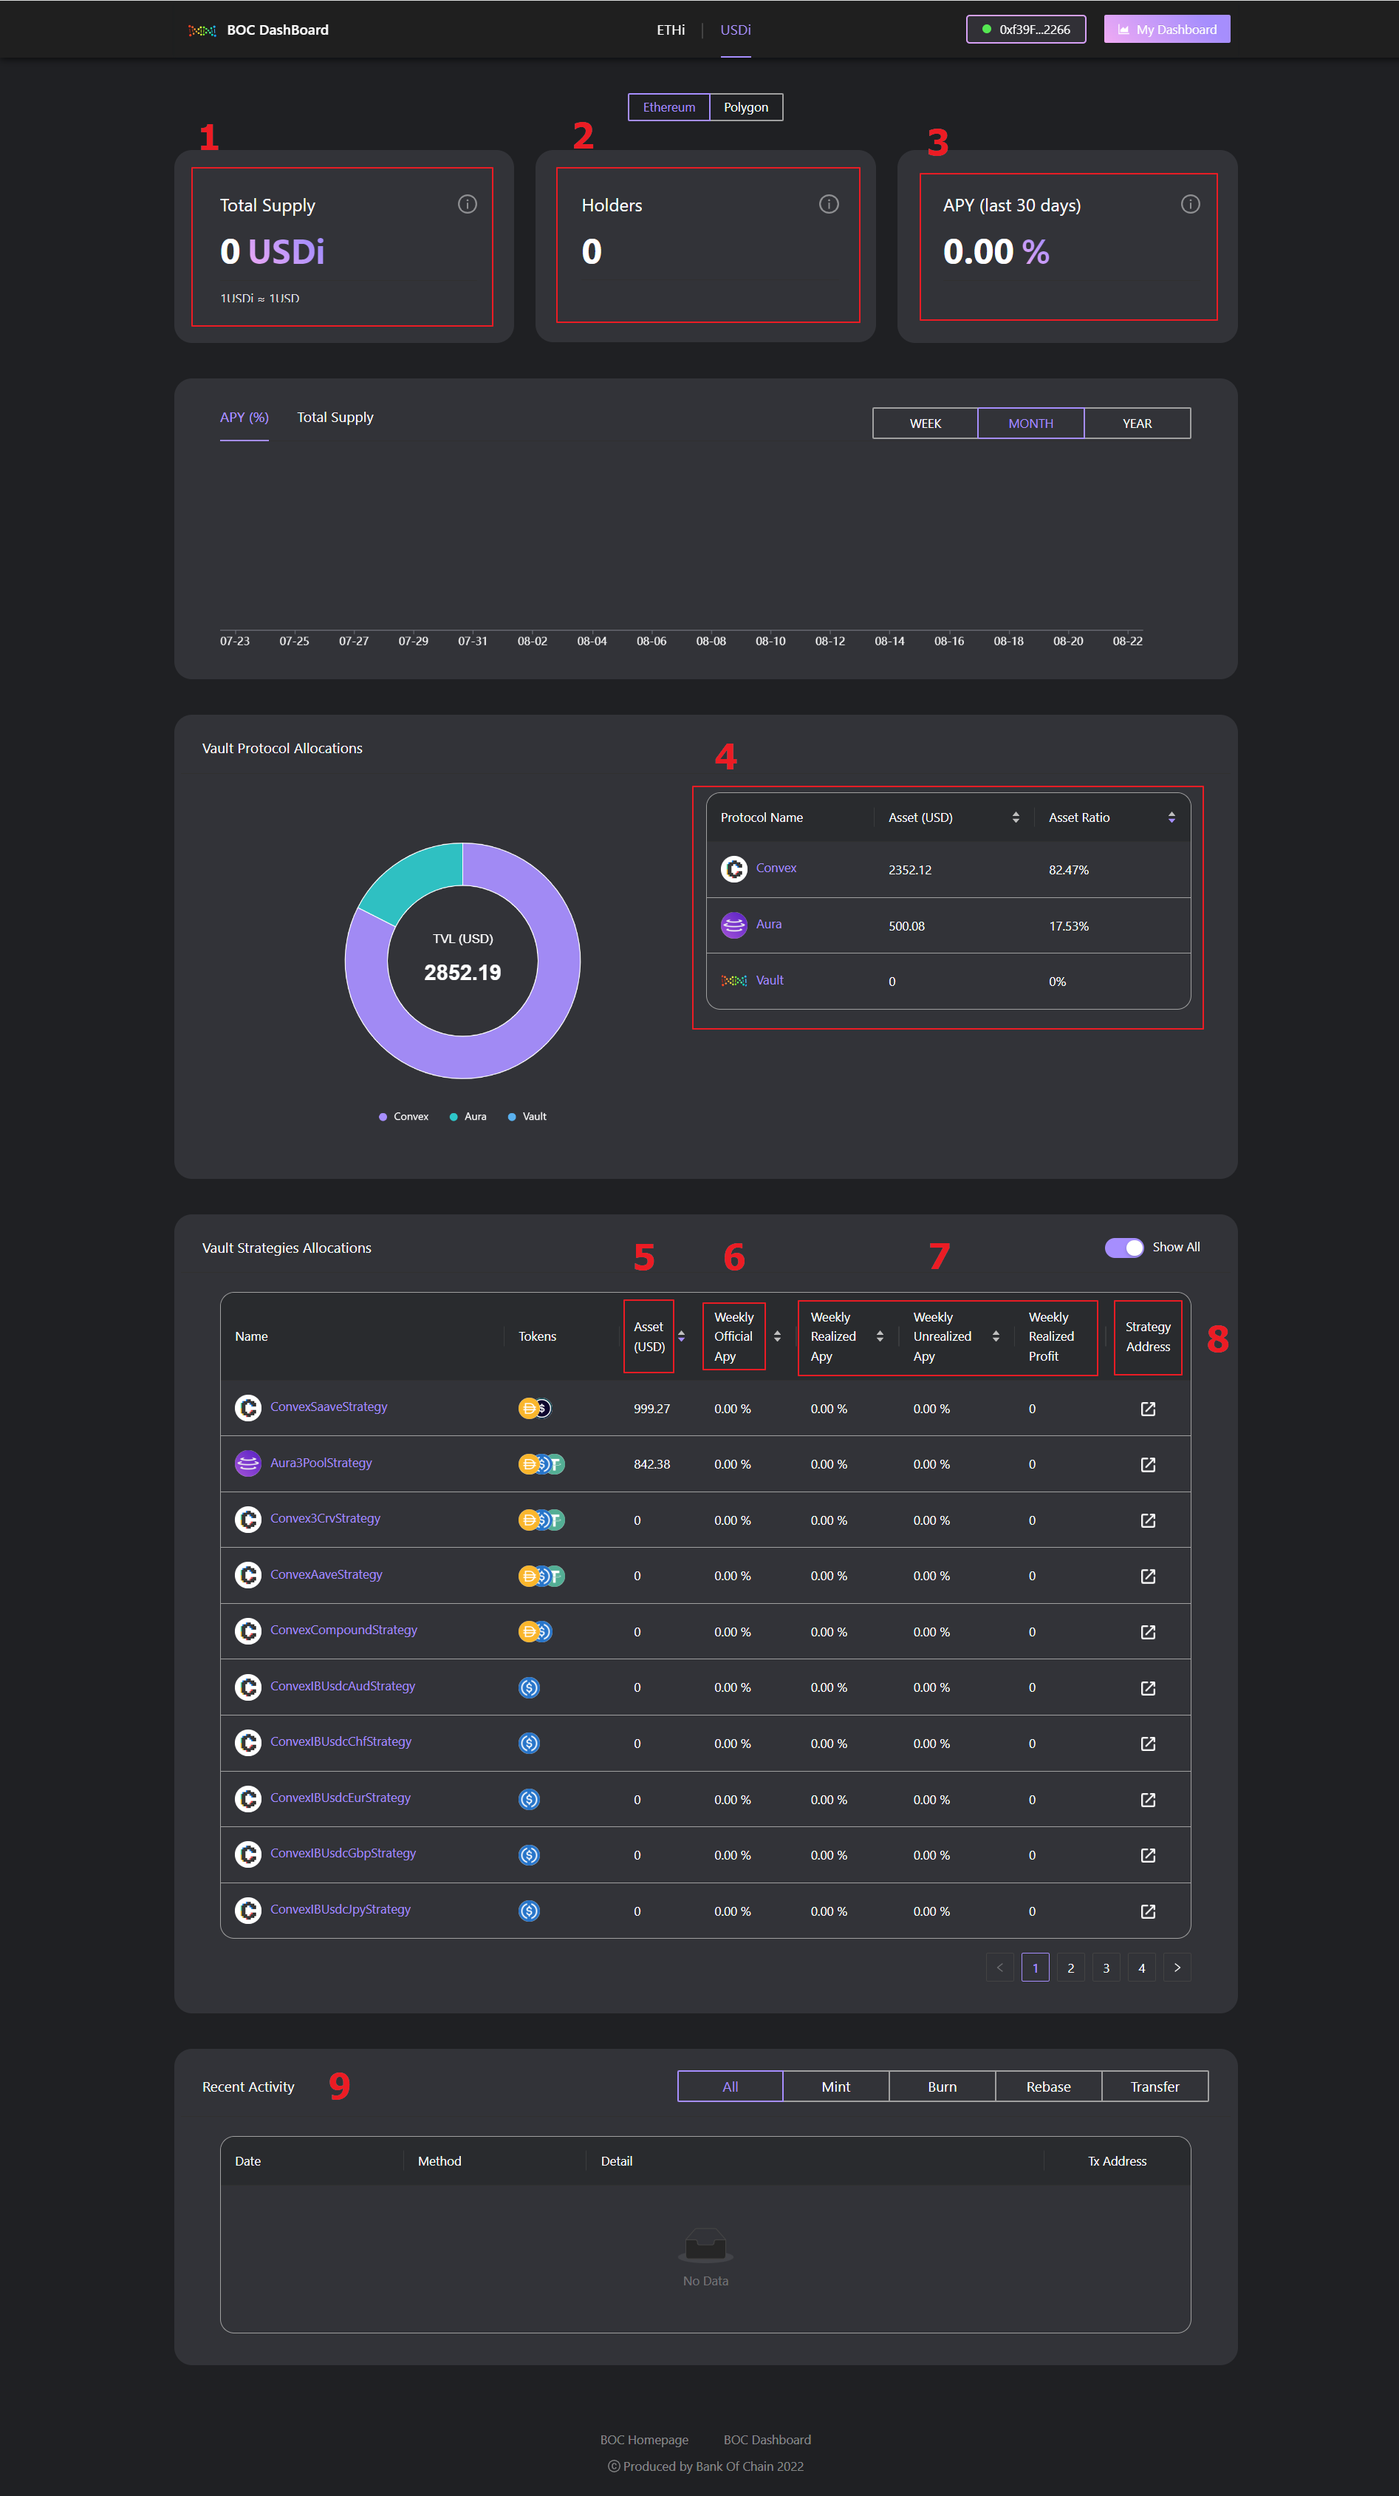
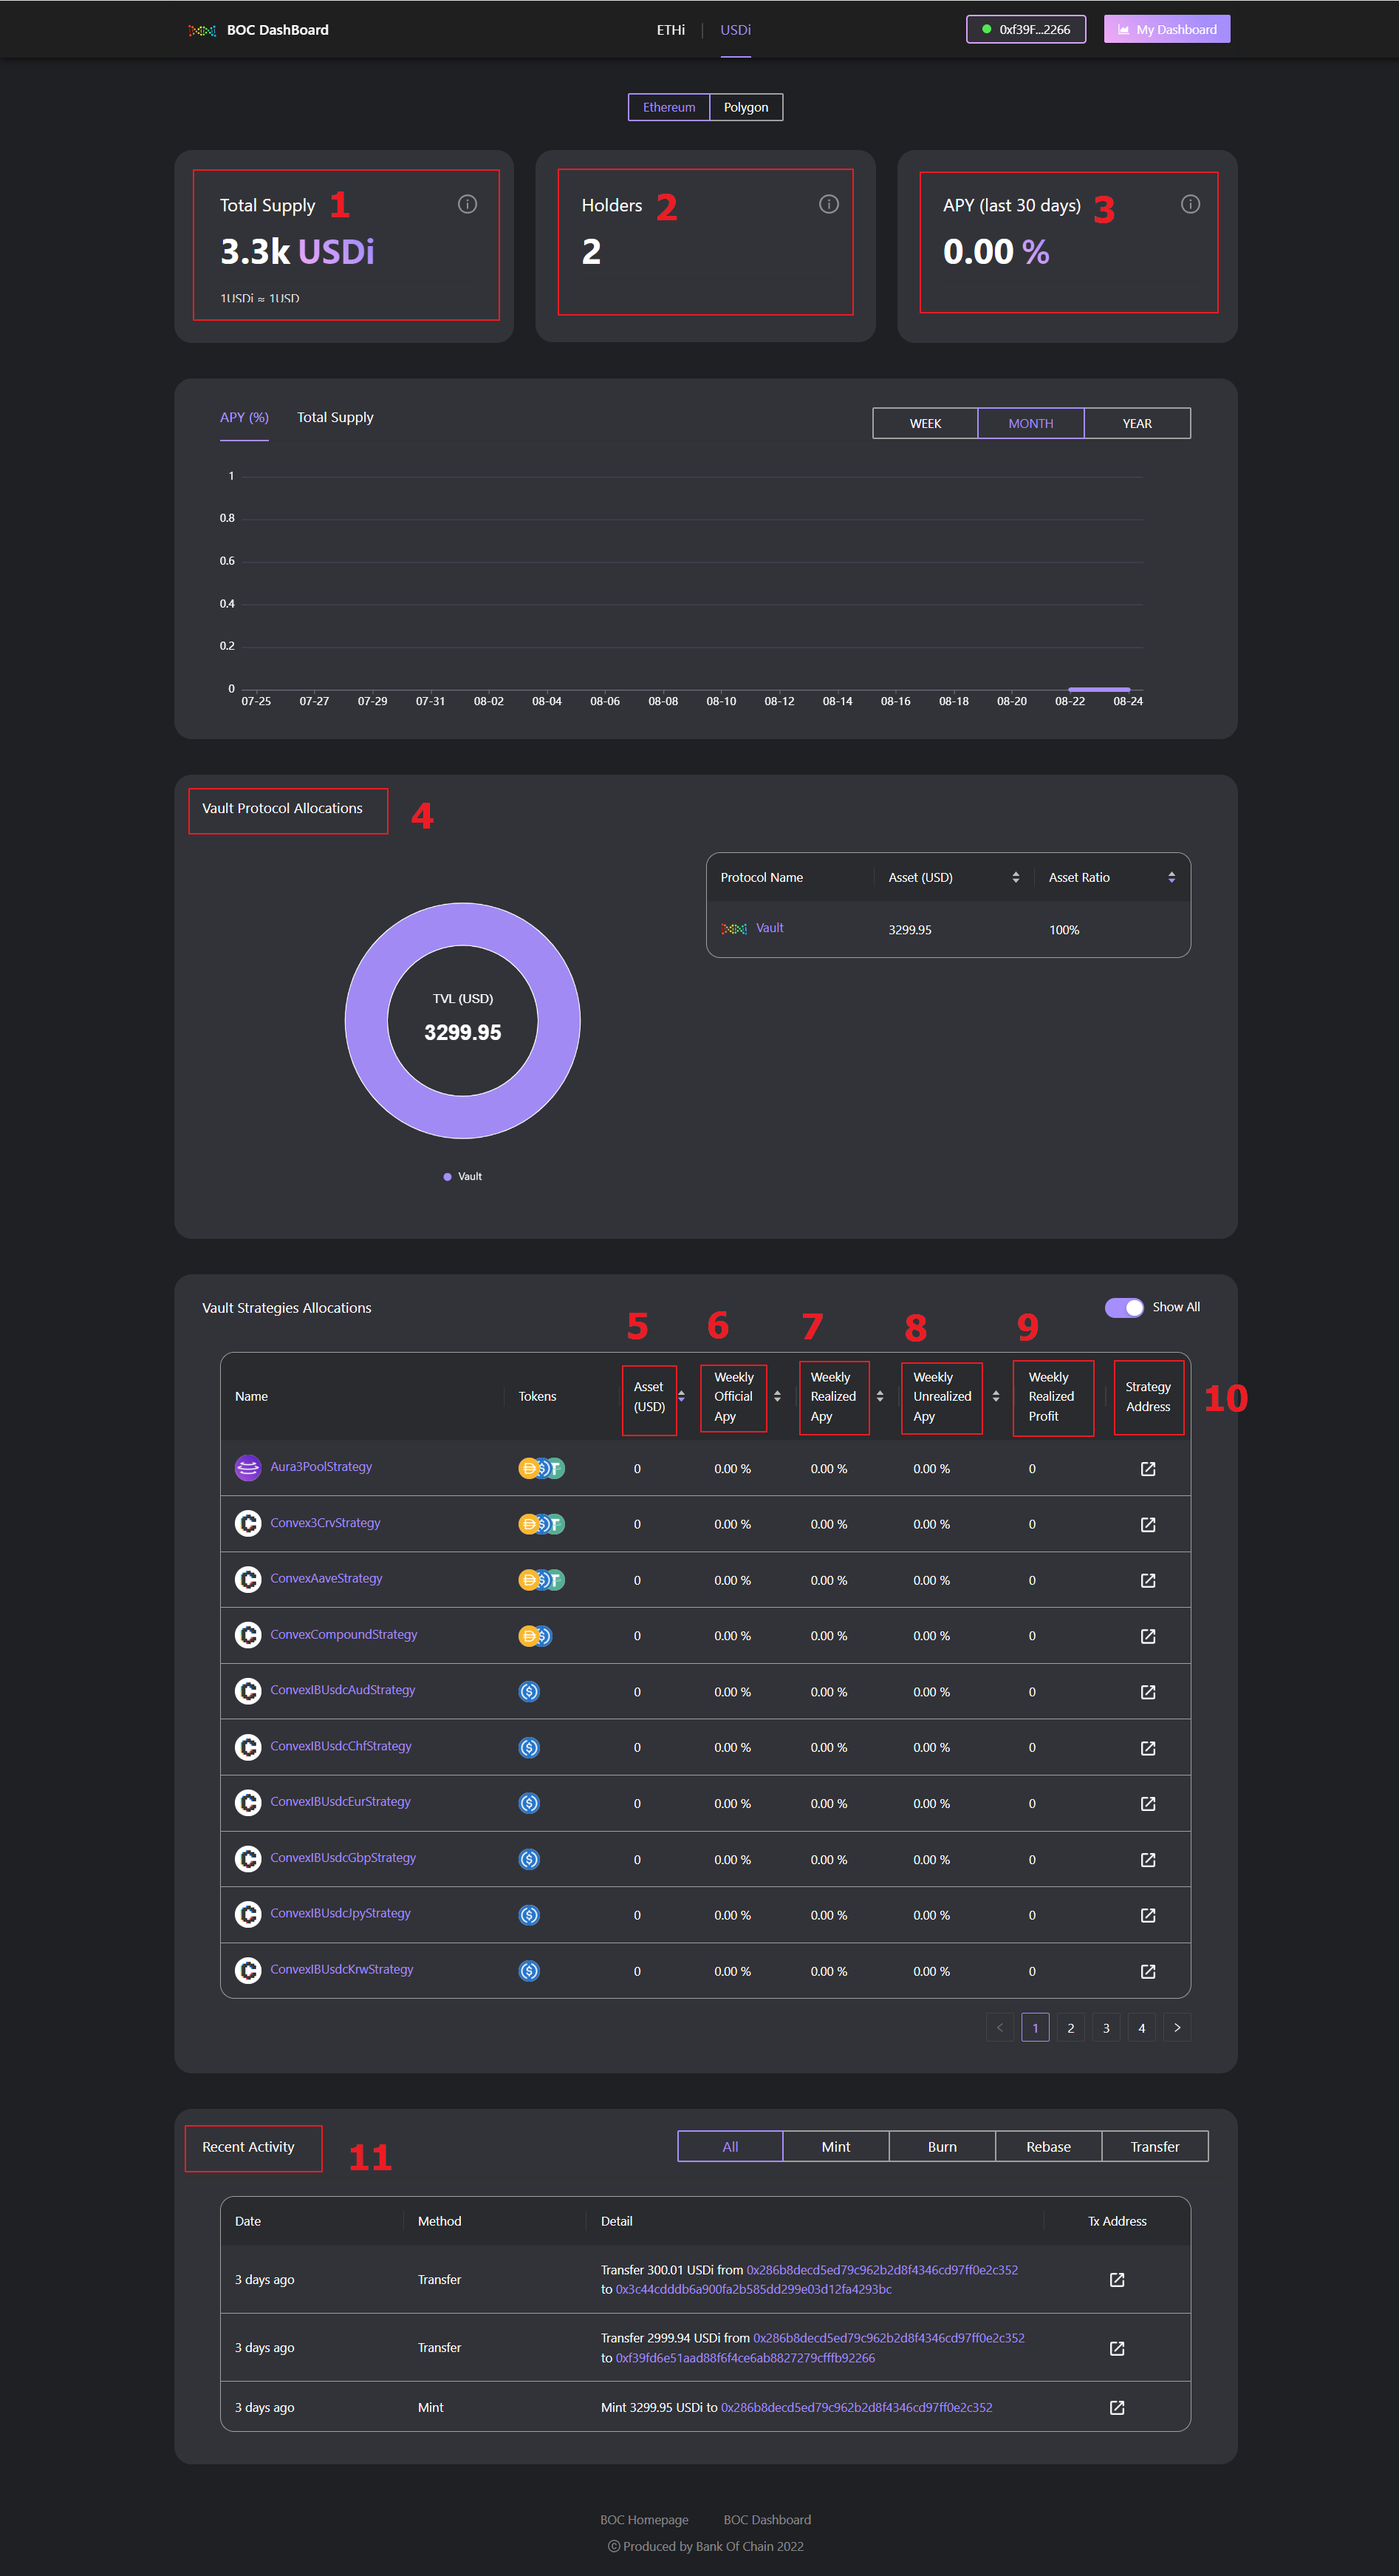
new commit

diff --git a/boc/user-handbook.md b/boc/user-handbook.md
@@ -139,7 +139,9 @@ The data presented are described as follows:
 4. Proportion of protocol funds, queried from the subgraph interface.
 5. The total assets of each strategy, read the contract interface.
 6. Official APY, regularly pulled weekly.
-7. Currency standard Weekly Realised APY, Weekly Unrealised APY, and weekly Realised Profit.
+7. *TBC*
+8. *TBC*
+9. Weekly profit generated by the corresponding strategy, obtained after harvest has been executed.
 8. Strategy Address.
 9. Vault operation records (of recent activities), displayed with the blockchain browser.
 
@@ -151,24 +153,28 @@ BoC subgraph:
 
 ## Strategy Details
 
-Take DForceLendDaiStrategy as an example, enter the strategy details page as shown in the figure:
+Using UniswapV3UsdcUsdt500Strategy as an example, enter the strategy details page as shown in the figure:
 
 ![](<../.gitbook/assets/user_handbook_strategy_details.png>)
-![](<../.gitbook/assets/user_handbook_strategy_details2.png>)
 
 The data presented are described as follows:
 
-1. Strategy details:
+1. Strategy information:
    * Strategy name.
-   * Stablecoins accepted by the strategy.
+   * Stablecoins/Tokens accepted by the strategy.
    * The current total assets of the strategy (valued in USD).
    * The current status of the strategy.
 2. Strategy historical return APY performance:
    * Historical official weekly APY(purple line).
    * Historical weekly APY(green line).
-3. Total strategy assets (currency standard).
-4. Strategy operation asset changes (currency standard).
-5. Strategy operation date.
+3. Value locked by the strategy (daily/weekly)
+4. Profits generated by the strategy.
+5. Official APY of the strategy.
+6. *TBC*
+7. Total strate*gy assets (currency standard).
+8. Strategy operation asset changes (currency standard).
+9. Strategy operation date.
+10. *TBC*
 
 ## Personal Investment Analysis
 
@@ -179,8 +185,8 @@ Enter the personal investment analysis page to see the personal investment incom
 The data presented are described as follows:
 
 1. Personal USDi balance.
-2. Unwithdrawn earnings (calculated in USDi).
-3. Withdrawn earnings (calculated in USDi).
+2. To-harvest profit generated by third-party strategies, which transforms into realized profit once harvest is successfully executed (calculated in USDi).
+3. Withdrawable profit in the BoC Vault gained after harvest (calculated in USDi).
 4. Last 7 days [APY](../more/appendix.md#annual-yield-apy).
 5. Last 30 days APY.
 6. Daily USDi amount.
